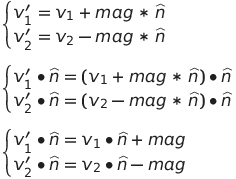
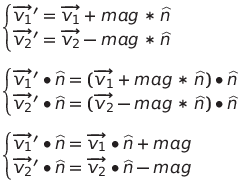
Storing current work so can double check.
Something seems wrong about the equations?

diff --git a/doc/physics.latex.md b/doc/physics.latex.md
@@ -1,32 +1,61 @@
 
+## linear_energy_eqn1
+```latex
+\frac{m_1 * s_1^2}{2} + \frac{m_2 * s_2^2}{2} = \frac{m_1 * s_1'^2}{2} + \frac{m_2 * s_2'^2}{2}
+```
+
 ## linear_impulse_eqn1
 ```latex
 \begin{cases}
-v_1' = v_1 + mag * \widehat{n} \\
-v_2' = v_2 - mag * \widehat{n} \\
-\end{cases}\\
+\overrightarrow{v_1}'  = \overrightarrow{v_1} + mag * \widehat{n} \\
+\overrightarrow{v_2}' = \overrightarrow{v_2} - mag * \widehat{n} \\
+\end{cases}
 ```
 
 ## linear_impulse_along_normal
 ```latex
 \begin{flushleft}
 \begin{cases}
-v_1' = v_1 + mag * \widehat{n} \\
-v_2' = v_2 - mag * \widehat{n} \\
+\overrightarrow{v_1}'  = \overrightarrow{v_1} + mag * \widehat{n} \\
+\overrightarrow{v_2}' = \overrightarrow{v_2} - mag * \widehat{n} \\
 \end{cases}\\
 \vspace{10} \\
 \begin{cases}
-v_1' \bullet \widehat{n} = (v_1 + mag * \widehat{n}) \bullet \widehat{n} \\
-v_2' \bullet \widehat{n} = (v_2 - mag * \widehat{n}) \bullet \widehat{n} \\
+\overrightarrow{v_1}' \bullet \widehat{n} = (\overrightarrow{v_1} + mag * \widehat{n}) \bullet \widehat{n} \\
+\overrightarrow{v_2}' \bullet \widehat{n} = (\overrightarrow{v_2} - mag * \widehat{n}) \bullet \widehat{n} \\
 \end{cases} \\
 \vspace{10} \\
 \begin{cases}
-v_1' \bullet \widehat{n} = v_1 \bullet \widehat{n} + mag \\
-v_2' \bullet \widehat{n} = v_2 \bullet \widehat{n} - mag \\
+\overrightarrow{v_1}' \bullet \widehat{n} = \overrightarrow{v_1} \bullet \widehat{n} + mag \\
+\overrightarrow{v_2}' \bullet \widehat{n} = \overrightarrow{v_2} \bullet \widehat{n} - mag \\
 \end{cases} \\
 \end{flushleft}
 ```
 
-## linear_impulse_along_normal
+## linear_energy_solve_part1
 ```latex
+\frac{m_1 * s_1^2}{2} + \frac{m_2 * s_2^2}{2} &=& \frac{m_1 * s_1'^2}{2} + \frac{m_2 * s_2'^2}{2} \\
+\vspace{10} \\
+m_1 * s_1^2 + m_2 * s_2^2 &=& m_1 * s_1'^2 + m_2 * s_2'^2 \\
+\vspace{10} \\
+m_1 * (\overrightarrow{v_1} \bullet \widehat{n})^2 + m_2 * (\overrightarrow{v_2} \bullet \widehat{n})^2 &=& m_1 * (\overrightarrow{v_1}' \bullet \widehat{n})^2 + m_2 * (\overrightarrow{v_2}' \bullet \widehat{n})^2 \\
+\vspace{10} \\
+m_1 * (\overrightarrow{v_1} \bullet \widehat{n})^2 + m_2 * (\overrightarrow{v_2} \bullet \widehat{n})^2 &=& m_1 * (\overrightarrow{v_1} \bullet \widehat{n} + mag)^2 + m_2 * (\overrightarrow{v_2} \bullet \widehat{n} - mag)^2 \\
+\vspace{10}
+```
+
+## linear_energy_solve_part2
+```latex
+m_k * (\overrightarrow{v_k} \bullet \widehat{n})^2 + ... &=& m_k * (\overrightarrow{v_k} \bullet \widehat{n} \pm mag)^2 + ... \\
+\vspace{10} \\
+m_k * (\overrightarrow{v_k} \bullet \widehat{n})^2 + ... &=& m_k * [(\overrightarrow{v_k} \bullet \widehat{n})^2 \pm 2 * mag * (\overrightarrow{v_k} \bullet \widehat{n}) + mag^2] + ... \\
+\vspace{10} \\
+0 + ... &=& m_k * [\pm 2 * mag * (\overrightarrow{v_k} \bullet \widehat{n}) + mag^2] + ...
+```
+
+## linear_energy_solve_part3
+```latex
+0 &=& m_1 * (+2 * mag * (\overrightarrow{v_1} \bullet \widehat{n}) + mag^2) + m_2 * (-2 * mag * (\overrightarrow{v_2} \bullet \widehat{n}) + mag^2) \\
+\vspace{10} \\
+0 &=& [m_1 * (2 (\overrightarrow{v_1} \bullet \widehat{n}) + mag) + m_2 * (-2 * (\overrightarrow{v_2} \bullet \widehat{n}) + mag)] * mag
 ```

diff --git a/doc/physics.md b/doc/physics.md
@@ -96,6 +96,20 @@ The above can then further be modified to focus just on the velocity change in t
 
 Now since the velocity will only change along the collision `normal`, and equation equating total energy before and after the collision can drop any energy coming from speed orthogonal to the `normal` as it will never change. So the energy equation becomes:
 
+![linear energy solving part 1](./img/linear_energy_solve_part1.png)
+
+Each squared term on the right can be expanded, and then cancel with a term on the right:
+
+![linear energy solving part 2](./img/linear_energy_solve_part2.png)
+
+So the whole equation becomes:
+
+![linear energy solving part 3](./img/linear_energy_solve_part3.png)
+
+Now, since the collision must change the object trajectory to prevent them from sliding into one another, the `impulse_magnitude`/!['mag' variable](./img/mag.png) cannot be zero. So it's safe to divide it out.
+
+![linear energy solving part 4](./img/linear_energy_solve_part4.png)
+
 ```
 0.5 * m_1 * (iv_1 dot normal) ^ 2 + 0.5 * m_2 * (iv_2 dot normal) ^ 2 = 0.5 * m_1 * (fv_1 dot normal) ^ 2 + 0.5 * m_2 * (fv_2 dot normal) ^ 2
 ---
